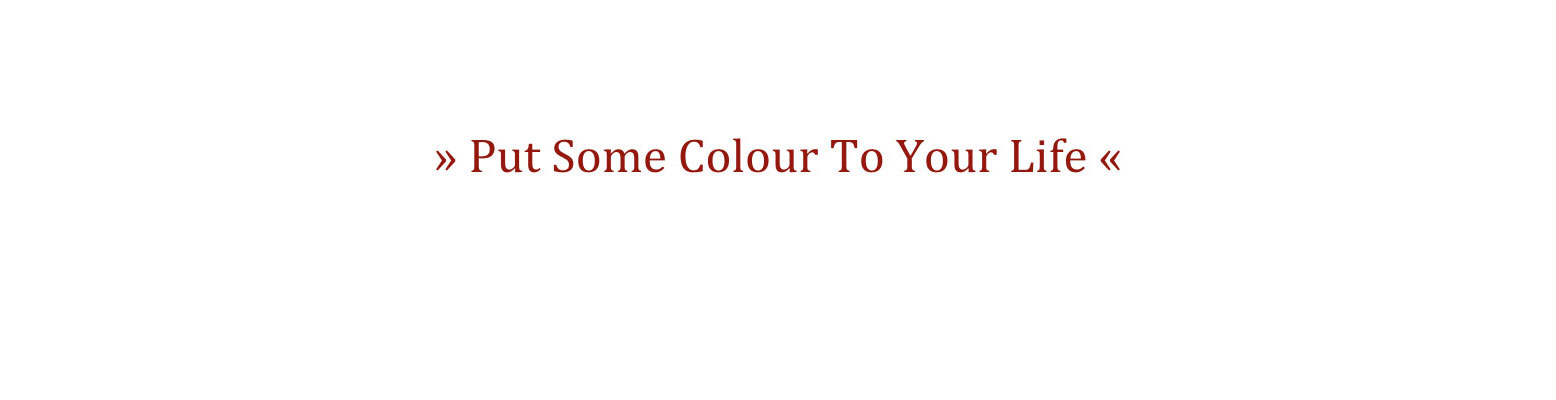
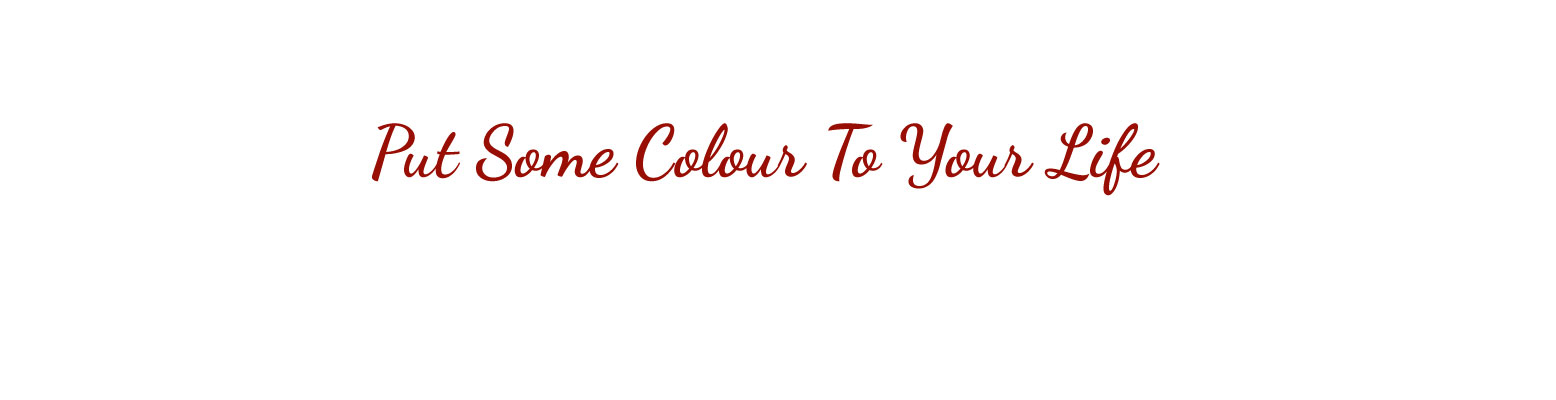
store img, main claim font changes, minor css fixes

Changed region(s): [[0.2159, 0.3, 0.7404, 0.48]]

diff --git a/index.html b/index.html
@@ -209,19 +209,24 @@
                 Sinks in fresh water, but floats on saltwater,
                 Contains inclusions (traces of life dating back 40 million years).
               <p>Then there were figurines of animals, birds and fish, these were to guarantee successful hunting or fishing. People believed that in the same way that amber attracts dry glass blades, such amulets attract luck and happiness and have special powers.</p>
+              <div class="page-scroll">
+                <a href="#kontakt" class="btn btn-circle">
+                  <i class="fa fa-angle-double-down animated"></i>
+                </a>
+              </div>
             </div>
         </div>
       </div>
     </section>
 
-    <section id="kontakt">
+    <section id="kontakt" class="l-subsection">
       <div class="container content-section text-center">
 	  <img src="img/logo-kontakty.png" class="logo" alt="S&A Prague"/>
 
         <div class="row">
 
           <div class="col-md-3">
-            <a href="https://goo.gl/maps/xjSeb" class="hover-shadow">
+            <a href="https://goo.gl/maps/xjSeb">
               <img src="img/karmelitska-map.png">
             </a>
             <h4>S&A Prague</h4>
@@ -229,7 +234,7 @@
           </div>
 
           <div class="col-md-3">
-            <a href="https://goo.gl/maps/gnXKZ" class="hover-shadow">
+            <a href="https://goo.gl/maps/gnXKZ">
               <img src="img/mostecka-map.png">
             </a>
             <h4>S&A Prague</h4>
@@ -237,7 +242,7 @@
           </div>
 
           <div class="col-md-3">
-            <a href="https://goo.gl/maps/DaXtQ" class="hover-shadow">
+            <a href="https://goo.gl/maps/DaXtQ">
               <img src="img/malostranske-namesti-map.png"/>
             </a>
             <h4>S&A Prague</h4>
@@ -245,7 +250,7 @@
           </div>
 
           <div class="col-md-3">
-            <a href="https://goo.gl/maps/HAuw8" class="hover-shadow">
+            <a href="https://goo.gl/maps/HAuw8">
               <img src="img/maiselova-map.png">
             </a>
             <h4>S&A Prague</h4>
@@ -288,9 +293,9 @@
         </div>
 
         <div class="row">
-            <div class="col-md-4 col-md-offset-4 text-center">
-              <p>&copy;&nbsp;2014 S&A Prague</p>
+            <div class="col-md-6 col-md-offset-3 text-center">
               <p>
+                &copy;&nbsp;2014 S&A Prague&nbsp;&nbsp;
                 <a href="mailto:info@sa-prague.com">info@sa-prague.com</a>
                 <a href="" class="btn-square social">
                   <i class="fa fa-facebook-square"></i>

diff --git a/css/grayscale.css b/css/grayscale.css
@@ -34,10 +34,7 @@ p {
 }
 
 a {
-    color: #fff;
-    -webkit-transition: all .2s ease-in-out;
-    -moz-transition: all .2s ease-in-out;
-    transition: all .2s ease-in-out;
+  color: #fff;
 }
 
 a:hover,
@@ -257,10 +254,10 @@ a:focus {
     height: 70px;
     margin-top: 15px;
     padding: 7px 16px;
-    border: 1px solid #ccc;
+    border: 1px solid #555252;
     border-radius: 35px;
     font-size: 40px;
-    color: #ccc;
+    color: #555252;
     background: 0 0;
     -webkit-transition: background .3s ease-in-out;
     -moz-transition: background .3s ease-in-out;
@@ -277,7 +274,7 @@ a:focus {
 .btn-circle.gray:hover,
 .btn-circle.gray:focus {
     outline: 0;
-    color: #ccc;
+    color: #555252;
     background: rgba(204,204,204,.2);
 }
 
@@ -497,7 +494,7 @@ text-decoration: underline;
 }
 
 #kontakt h4 {
-  margin-bottom: 0;
+  margin: 32px 0 0 0;
   line-height: 32px;
 }
 
@@ -544,4 +541,12 @@ a.hover-shadow {
   font-size: 32px;
   margin-left: 16px;
   vertical-align: bottom;
+}
+
+.social:hover > .fa-facebook-square, .social:focus > .fa-facebook-square {
+  color: #3B5998;
+}
+
+.social:hover > .fa-google-plus-square, .social:focus > .fa-google-plus-square {
+  color: #d34836;
 }
